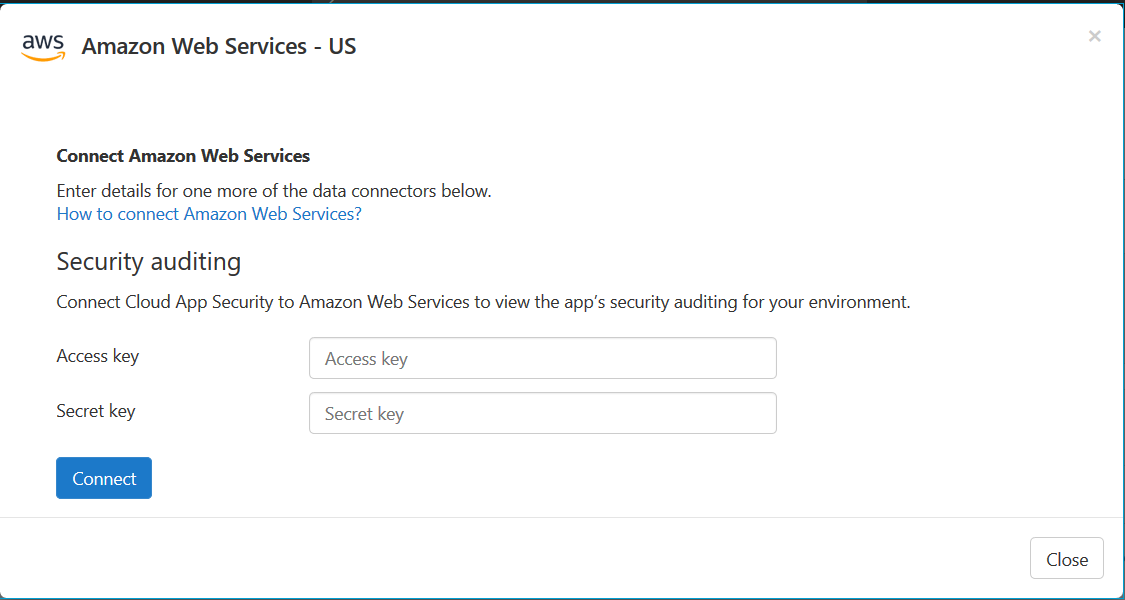
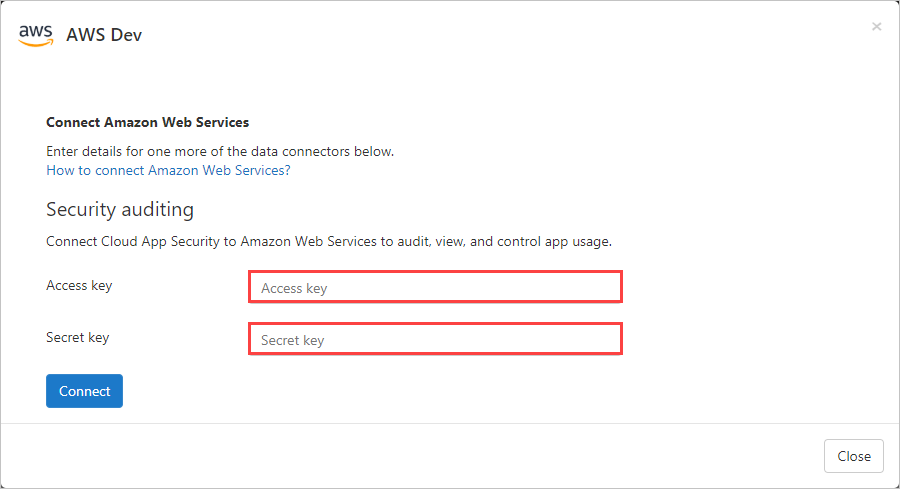
Update connect AWS/GCP auditing

diff --git a/CloudAppSecurityDocs/connect-google-gcp-to-microsoft-cloud-app-security.md b/CloudAppSecurityDocs/connect-google-gcp-to-microsoft-cloud-app-security.md
@@ -120,36 +120,46 @@ Make a note of your **Organization ID**, you'll need this later. For more inform
 
 ### Connect Google Cloud Platform auditing to Cloud App Security
 
-- In the Cloud App Security portal, click **Investigate** and then **Connected apps**.
-
 #### Add the GCP connection details
 
-1. In Cloud App Security, click **Investigate**, and then select **Connected apps**.
+1. In the Cloud App Security portal, click **Investigate** and then **Connected apps**.
 
-1. In the **App connectors** tab, click the plus button, and then select **Google Cloud Platform**.
+1. In the **App connectors** page, to provide the AWS connector credentials, do one of the following:
 
-    ![Screenshot showing add GCP menu](media/connect-gcp-add.png)
+    > [!NOTE]
+    > We recommended that you connect your G Suite instance to get unified user management and governance. This is the recommended even if you do not use any G Suite products and the GCP users are managed via the G Suite user management system.
 
-1. In the **Instance name** page, choose the instance type, and then click **Next**.
+    **For a new connector**
 
-    - For an existing connector, choose the relevant instance.
+    1. Click the plus sign followed by **Google Cloud Platform**.
 
-        ![GCP instance selection](media/connect-gcp-existing-instance.png)
+        ![connect GCP](media/connect-gcp-add.png)
 
-    - For a new connector, provide a name for the instance.
+    1. In the pop-up, provide a name for the connector, and then click **Connect Google Cloud Platform**.
 
-        ![GCP connector name](media/connect-gcp-new-instance.png)
+        ![GCP connector name](media/connect-gcp-name.png)
 
-1. In the **Project details** page, do the following, and then click **Next**.
-    1. In the **Organization ID** box, enter the organization you made a note of earlier.
-    1. In the **Private key file** box, browse to the JSON file you downloaded earlier.
+    1. In the **Project details** page, do the following, and then click **Connect Google Cloud Platform**.
+        1. In the **Organization ID** box, enter the organization you made a note of earlier.
+        1. In the **Private key file** box, browse to the JSON file you downloaded earlier.
 
-    ![Add GCP project details](media/connect-gcp-security-configuration-6.png)
+        ![Connect GCP app security auditing](media/connect-gcp-app-audit.png)
 
-1. In the **Finished** page, make sure the connection succeeded, and then click **Finished**.
+    **For an existing connector**
 
-> [!NOTE]
-> We recommended that you connect your G Suite instance to get unified user management and governance. This is the recommended even if you do not use any G Suite products and the GCP users are managed via the G Suite user management system.
+    1. In the list of connectors, on the row in which the AWS connector appears, click **Connect security auditing**.
+
+        ![Screenshot of the Connected Apps page, showing edit Security Auditing link](media/connect-gcp-app-edit-audit.png)
+
+    1. In the **Project details** page, do the following, and then click **Connect Google Cloud Platform**.
+        1. In the **Organization ID** box, enter the organization you made a note of earlier.
+        1. In the **Private key file** box, browse to the JSON file you downloaded earlier.
+
+        ![Connect GCP app security auditing](media/connect-gcp-app-edit-audit-creds.png)
+
+1. Click **Test API** to make sure the connection succeeded.
+
+    Testing may take a couple of minutes. When it's finished, you get a success or failure notification. After receiving a success notice, click **Done**.
 
 If you have any problems connecting the app, see [Troubleshooting App Connectors](troubleshooting-api-connectors-using-error-messages.md).
 

diff --git a/CloudAppSecurityDocs/connect-aws-to-microsoft-cloud-app-security.md b/CloudAppSecurityDocs/connect-aws-to-microsoft-cloud-app-security.md
@@ -124,27 +124,37 @@ Use the following steps to configure your AWS auditing and then connect it to Cl
 
 ### Step 2: Connect Amazon Web Services auditing to Cloud App Security
 
-1. In Cloud App Security, click **Investigate**, and then select **Connected apps**.
+1. In the Cloud App Security portal, click **Investigate** and then **Connected apps**.
 
-1. In the **App connectors** tab, click the plus button, and then select **Amazon Web Services**.
+1. In the **App connectors** page, to provide the AWS connector credentials, do one of the following:
 
-    ![connect AWS](media/connect-aws.png)
+    **For a new connector**
 
-1. In the **Instance name** page, choose the instance type, and then click **Next**.
+    1. Click the plus sign followed by **Amazon Web Services**.
 
-    - For an existing connector, choose the relevant instance.
+        ![connect AWS](media/connect-aws.png "connect AWS")
 
-        ![AWS instance selection](media/connect-aws-existing-instance.png)
+    1. In the pop-up, provide a name for the connector, and then click **Connect Amazon Web Services**.
 
-    - For a new connector, provide a name for the instance.
+        ![AWS connector name](media/connect-aws-name.png)
 
-        ![AWS connector name](media/aws-connect-name.png)
+    1. On the Connect Amazon Web services page, select **Security auditing**, paste the **Access key** and **Secret key** from the .csv file into the relevant fields, and click **Connect**.
 
-1. In the **Account details** page, paste the **Access key** and **Secret key** from the .csv file into the relevant fields, and then click **Next**.
+        ![Connect AWS app security auditing](media/aws-connect-app-audit.png "Connect AWS app security auditing")
 
-    ![Connect AWS account details](media/aws-connect-account-details.png)
+    **For an existing connector**
 
-1. In the **Finished** page, make sure the connection succeeded, and then click **Finished**.
+    1. In the list of connectors, on the row in which the AWS connector appears, click **Connect security auditing**.
+
+        ![Screenshot of the Connected Apps page, showing edit Security Auditing link](media/aws-connect-app-edit-audit.png)
+
+    1. On the Connect Amazon Web Services page, paste the **Access key** and **Secret key** from the .csv file into the relevant fields, and click **Connect**.
+
+        ![Connect AWS app security auditing](media/aws-connect-app-edit-audit-creds.png "Connect AWS app security auditing")
+
+1. Click **Test API** to make sure the connection succeeded.
+
+    Testing may take a couple of minutes. When it's finished, you get a success or failure notification. After receiving a success notice, click **Done**.
 
 ## How to connect AWS security configuration to Cloud App Security
 
